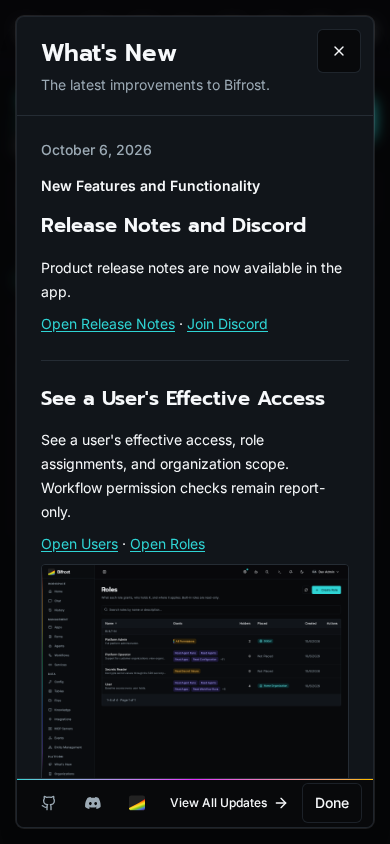
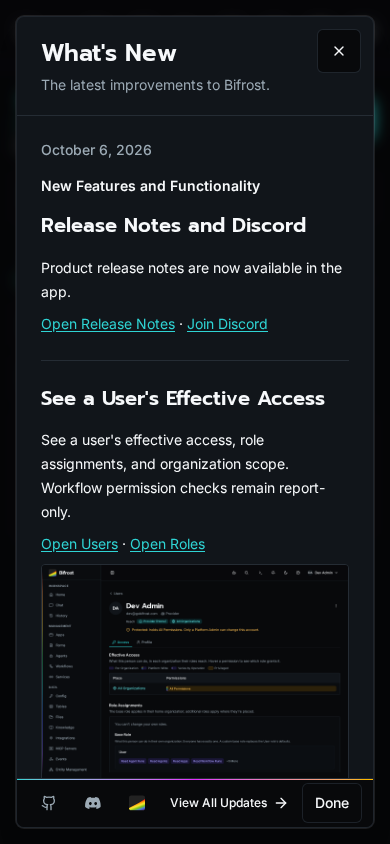
Illustrate access and retention notes and verify complete release coverage

Changed region(s): [[0.2462, 0.6777, 0.8615, 0.9242], [0.1231, 0.6777, 0.2154, 0.9242], [0.7692, 0.6777, 0.8923, 0.7085]]

diff --git a/client/e2e/preview/product-updates.admin.spec.ts b/client/e2e/preview/product-updates.admin.spec.ts
@@ -90,6 +90,11 @@ test("admin sees new updates automatically and reopens history from Help", async
 		animations: "disabled",
 		path: testInfo.outputPath("whats-new-mobile.png"),
 	});
+	await expect.poll(() => history.getByRole("img", { name: "Effective access and role assignments", exact: true }).evaluate((element) => (element as HTMLImageElement).naturalWidth)).toBeGreaterThan(0);
+	await history.getByRole("heading", { name: "Set History Retention", exact: true }).scrollIntoViewIfNeeded();
+	await expect.poll(() => history.getByRole("img", { name: "Run history retention settings", exact: true }).evaluate((element) => (element as HTMLImageElement).naturalWidth)).toBeGreaterThan(0);
+	await history.getByRole("img", { name: "Run history retention settings", exact: true }).scrollIntoViewIfNeeded();
+	await history.screenshot({ animations: "disabled", path: testInfo.outputPath("whats-new-retention-mobile.png") });
 	await history.getByRole("heading", { name: "Bug Fixes", exact: true }).scrollIntoViewIfNeeded();
 	await expect(history.getByRole("heading", { name: "Bug Fixes", exact: true })).toHaveCount(1);
 	await expect(history.getByRole("link", { name: "Done", exact: true })).toBeVisible();

diff --git a/docs/plans/product-updates-progress.md b/docs/plans/product-updates-progress.md
@@ -201,3 +201,15 @@ docker exec -w /app bifrost-debug-3fc9b38f-client-1 npx vite build --outDir /tmp
 Failure dispositions: an automated edit accidentally shadowed the imported visibility helper with a nonexistent prop, keeping the modal quiet. Component tests, types and lint exposed it; removing the shadow restored the imported helper and all checks passed. The initial Ruff format invocation hit the known host-cache permission boundary; `--no-cache` preserves formatting/lint enforcement without using that cache. Screenshot review then reduced correction card prose to compact sentences; final verification used the changed content. Broad suites and production/live publication were not run.
 
 Final browser capture after restoring the explicit Fetch-before-sync upgrade instruction passed in 8.0 seconds. The final generated previews contain 16 canonical notes/17 smaller changes for full and candidate, 17/17 with the staged announcement, and 0/0 for the maintenance-only interval.
+
+## Completeness Recheck and Feature Screenshots
+
+Rechecked GitHub releases with `gh release list --limit 20 --json tagName,isDraft,isPrerelease,publishedAt`: the latest final remains v1.4.1 (2026-09-17). `git fetch origin main` completed; origin/main and FETCH_HEAD both equal the frozen target 32aeea16c99c27d1278b5576f09080e29a59cca2. `git rev-list --count v1.4.1..origin/main` is 124; the ledger covers every source in current main, with no later main commits missing from this initial batch.
+
+Captured the actual seeded admin Effective Access page and the Run history retention card through a read-only authenticated Docker-browser session. The access note replaces its generic Roles illustration with the real effective-access screen. The retention note gains its first screenshot. Those two note revisions are 4; other notes remain 3. Source captures, route/context and SHA256 evidence are in `product-updates/evidence/feature-screenshot-captures.json`. New source assets were committed in 2ac8231e7 before regenerating GitHub bodies; all saved GitHub preview asset URLs now pin that asset-bearing commit. They require pushing that commit before public URLs resolve; no publishing occurred. The superseded Roles screenshot and generated copy were removed. The deterministic asset map and copied local assets were regenerated.
+
+Capture dispositions: the first retention crop selected its rounded header rather than the whole Card; capture now uses the Card data-slot ancestor and the final PNG includes the settings. An XPath quoting error was corrected before recapture. Kubernetes settings are deliberately gated by KubernetesStatus.configured; this Docker preview has no configured Kubernetes, so its capture is not included. The final capture completed with both actual feature images; no empty or fabricated Kubernetes screenshot was substituted.
+
+Verification: deterministic preview rendering/validation and coverage passed; `python3 -m unittest scripts.test_product_updates scripts.test_release_gate -q` passed 34 tests. `./test.sh client preview` passed in 7.5 seconds with naturalWidth assertions for both images, plus existing mobile exit, grouping, receipts and desktop/mobile captures. Actual browser spec lint passed in the whole-client Playwright image. No source UI logic or API contracts changed; broader suites were not run.
+
+Final capture scrolls the retention image into view and passed in 8.8 seconds. `docker exec -w /app bifrost-debug-3fc9b38f-client-1 npx tsc -b --pretty false` passed with regenerated image imports. Scoped ESLint covers the actual browser spec and generated asset map.

diff --git a/product-updates/previews/announcement-preview.md b/product-updates/previews/announcement-preview.md
@@ -55,6 +55,10 @@ Choose how long to keep completed runs, events, and audit records.
 
 **Open Maintenance** (in Bifrost)
 
+![Run history retention settings](https://raw.githubusercontent.com/gobifrost/bifrost/2ac8231e74e3d4bc0f09e727d5af65e2a38c0a70/product-updates/assets/0cf7ed8c-3fc1-5d28-b89b-09ca20a59262/retention.png)
+
+Choose a retention period or keep finished runs and events indefinitely.
+
 Sources: [#905](https://github.com/gobifrost/bifrost/pull/905), [#908](https://github.com/gobifrost/bifrost/pull/908)
 
 ### Update the CLI and MCP Clients
@@ -82,9 +86,9 @@ See a user's effective access, role assignments, and organization scope. Workflo
 
 **Open Users** (in Bifrost) · **Open Roles** (in Bifrost)
 
-![Roles and organization scope](https://raw.githubusercontent.com/gobifrost/bifrost/72e730fec8d11ecb65b7220b1de7b82ebe7e98f5/product-updates/assets/fd0c7319-fcc0-5901-8eeb-3ec1b74f98c8/roles.png)
+![Effective access and role assignments](https://raw.githubusercontent.com/gobifrost/bifrost/2ac8231e74e3d4bc0f09e727d5af65e2a38c0a70/product-updates/assets/fd0c7319-fcc0-5901-8eeb-3ec1b74f98c8/effective-access.png)
 
-Built-in role grants and organization scope.
+A user's effective permissions and organization scope.
 
 Sources: [#879](https://github.com/gobifrost/bifrost/pull/879), [#889](https://github.com/gobifrost/bifrost/pull/889), [#890](https://github.com/gobifrost/bifrost/pull/890), [#895](https://github.com/gobifrost/bifrost/pull/895), [#900](https://github.com/gobifrost/bifrost/pull/900), [#903](https://github.com/gobifrost/bifrost/pull/903), [#914](https://github.com/gobifrost/bifrost/pull/914), [#915](https://github.com/gobifrost/bifrost/pull/915)
 

diff --git a/product-updates/previews/initial-candidate.md b/product-updates/previews/initial-candidate.md
@@ -55,6 +55,10 @@ Choose how long to keep completed runs, events, and audit records.
 
 **Open Maintenance** (in Bifrost)
 
+![Run history retention settings](https://raw.githubusercontent.com/gobifrost/bifrost/2ac8231e74e3d4bc0f09e727d5af65e2a38c0a70/product-updates/assets/0cf7ed8c-3fc1-5d28-b89b-09ca20a59262/retention.png)
+
+Choose a retention period or keep finished runs and events indefinitely.
+
 Sources: [#905](https://github.com/gobifrost/bifrost/pull/905), [#908](https://github.com/gobifrost/bifrost/pull/908)
 
 ### Update the CLI and MCP Clients
@@ -75,9 +79,9 @@ See a user's effective access, role assignments, and organization scope. Workflo
 
 **Open Users** (in Bifrost) · **Open Roles** (in Bifrost)
 
-![Roles and organization scope](https://raw.githubusercontent.com/gobifrost/bifrost/72e730fec8d11ecb65b7220b1de7b82ebe7e98f5/product-updates/assets/fd0c7319-fcc0-5901-8eeb-3ec1b74f98c8/roles.png)
+![Effective access and role assignments](https://raw.githubusercontent.com/gobifrost/bifrost/2ac8231e74e3d4bc0f09e727d5af65e2a38c0a70/product-updates/assets/fd0c7319-fcc0-5901-8eeb-3ec1b74f98c8/effective-access.png)
 
-Built-in role grants and organization scope.
+A user's effective permissions and organization scope.
 
 Sources: [#879](https://github.com/gobifrost/bifrost/pull/879), [#889](https://github.com/gobifrost/bifrost/pull/889), [#890](https://github.com/gobifrost/bifrost/pull/890), [#895](https://github.com/gobifrost/bifrost/pull/895), [#900](https://github.com/gobifrost/bifrost/pull/900), [#903](https://github.com/gobifrost/bifrost/pull/903), [#914](https://github.com/gobifrost/bifrost/pull/914), [#915](https://github.com/gobifrost/bifrost/pull/915)
 

diff --git a/product-updates/previews/initial-full-release.md b/product-updates/previews/initial-full-release.md
@@ -55,6 +55,10 @@ Choose how long to keep completed runs, events, and audit records.
 
 **Open Maintenance** (in Bifrost)
 
+![Run history retention settings](https://raw.githubusercontent.com/gobifrost/bifrost/2ac8231e74e3d4bc0f09e727d5af65e2a38c0a70/product-updates/assets/0cf7ed8c-3fc1-5d28-b89b-09ca20a59262/retention.png)
+
+Choose a retention period or keep finished runs and events indefinitely.
+
 Sources: [#905](https://github.com/gobifrost/bifrost/pull/905), [#908](https://github.com/gobifrost/bifrost/pull/908)
 
 ### Update the CLI and MCP Clients
@@ -75,9 +79,9 @@ See a user's effective access, role assignments, and organization scope. Workflo
 
 **Open Users** (in Bifrost) · **Open Roles** (in Bifrost)
 
-![Roles and organization scope](https://raw.githubusercontent.com/gobifrost/bifrost/72e730fec8d11ecb65b7220b1de7b82ebe7e98f5/product-updates/assets/fd0c7319-fcc0-5901-8eeb-3ec1b74f98c8/roles.png)
+![Effective access and role assignments](https://raw.githubusercontent.com/gobifrost/bifrost/2ac8231e74e3d4bc0f09e727d5af65e2a38c0a70/product-updates/assets/fd0c7319-fcc0-5901-8eeb-3ec1b74f98c8/effective-access.png)
 
-Built-in role grants and organization scope.
+A user's effective permissions and organization scope.
 
 Sources: [#879](https://github.com/gobifrost/bifrost/pull/879), [#889](https://github.com/gobifrost/bifrost/pull/889), [#890](https://github.com/gobifrost/bifrost/pull/890), [#895](https://github.com/gobifrost/bifrost/pull/895), [#900](https://github.com/gobifrost/bifrost/pull/900), [#903](https://github.com/gobifrost/bifrost/pull/903), [#914](https://github.com/gobifrost/bifrost/pull/914), [#915](https://github.com/gobifrost/bifrost/pull/915)
 

diff --git a/product-updates/drafts/initial-backfill/entries/0cf7ed8c-3fc1-5d28-b89b-09ca20a59262.md b/product-updates/drafts/initial-backfill/entries/0cf7ed8c-3fc1-5d28-b89b-09ca20a59262.md
@@ -1,7 +1,7 @@
 ---json
 {
   "id": "0cf7ed8c-3fc1-5d28-b89b-09ca20a59262",
-  "revision": 3,
+  "revision": 4,
   "published_at": "2026-10-06T22:01:18Z",
   "title": "Set History Retention",
   "visibility": "highlight",
@@ -46,7 +46,13 @@
       "1aeb7d66efc4bfb78365fc84d1c4203b67a468ff"
     ]
   },
-  "assets": [],
+  "assets": [
+    {
+      "path": "assets/0cf7ed8c-3fc1-5d28-b89b-09ca20a59262/retention.png",
+      "alt": "Run history retention settings",
+      "caption": "Choose a retention period or keep finished runs and events indefinitely."
+    }
+  ],
   "review": {
     "status": "draft",
     "evidence": [
@@ -63,3 +69,5 @@ Choose how long to keep completed runs, events, and audit records.
 **Before upgrading:** run and event history defaults to 30 days, including existing installs. Select **Keep forever** before cleanup to retain older runs; deleted run details have no archive. Existing installs retain audit archives indefinitely. New installs keep audits for 90 days in the database and 365 days in the archive.
 
 [Open Maintenance](/settings/maintenance)
+
+![Run history retention settings](assets/0cf7ed8c-3fc1-5d28-b89b-09ca20a59262/retention.png)

diff --git a/docs/plans/product-updates-claude-handoff.md b/docs/plans/product-updates-claude-handoff.md
@@ -31,3 +31,5 @@ The release skill separates adding/preparing release data from publication. Prep
 Preview Controls is hidden on the normal review URL. Opt in with `/whats-new?controls=1` to use development fixture controls. The plain `/whats-new` route is the customer-style review surface.
 
 Features retain individual headlines under New Features and Functionality. Fixed and Security notes render as compact bullet lists under Bug Fixes and Hardening, with necessary upgrade actions inline and grouped source/credit details collapsed. Smaller notes join the matching lists in history; omitted maintenance stays in the ledger. `in_app: false` withholds a note from app display and receipts without deleting release material or bypassing review.
+
+Completeness was rechecked against freshly fetched main: it still matches frozen 32aeea16c. Effective Access and retention notes now have actual feature screenshots (revision 4); the older generic Roles illustration was replaced. GitHub preview images are pinned to asset-bearing commit 2ac8231e7. This Docker environment has no Kubernetes connection, so it cannot capture that conditionally available settings panel.

diff --git a/product-updates/drafts/initial-backfill/entries/fd0c7319-fcc0-5901-8eeb-3ec1b74f98c8.md b/product-updates/drafts/initial-backfill/entries/fd0c7319-fcc0-5901-8eeb-3ec1b74f98c8.md
@@ -1,7 +1,7 @@
 ---json
 {
   "id": "fd0c7319-fcc0-5901-8eeb-3ec1b74f98c8",
-  "revision": 3,
+  "revision": 4,
   "published_at": "2026-10-06T22:01:18Z",
   "title": "See a User's Effective Access",
   "visibility": "highlight",
@@ -119,9 +119,9 @@
   },
   "assets": [
     {
-      "path": "assets/fd0c7319-fcc0-5901-8eeb-3ec1b74f98c8/roles.png",
-      "alt": "Roles and organization scope",
-      "caption": "Built-in role grants and organization scope."
+      "path": "assets/fd0c7319-fcc0-5901-8eeb-3ec1b74f98c8/effective-access.png",
+      "alt": "Effective access and role assignments",
+      "caption": "A user's effective permissions and organization scope."
     }
   ],
   "review": {
@@ -145,4 +145,4 @@ See a user's effective access, role assignments, and organization scope. Workflo
 
 [Open Users](/users) · [Open Roles](/roles)
 
-![Roles and organization scope](assets/fd0c7319-fcc0-5901-8eeb-3ec1b74f98c8/roles.png)
+![Effective access and role assignments](assets/fd0c7319-fcc0-5901-8eeb-3ec1b74f98c8/effective-access.png)
